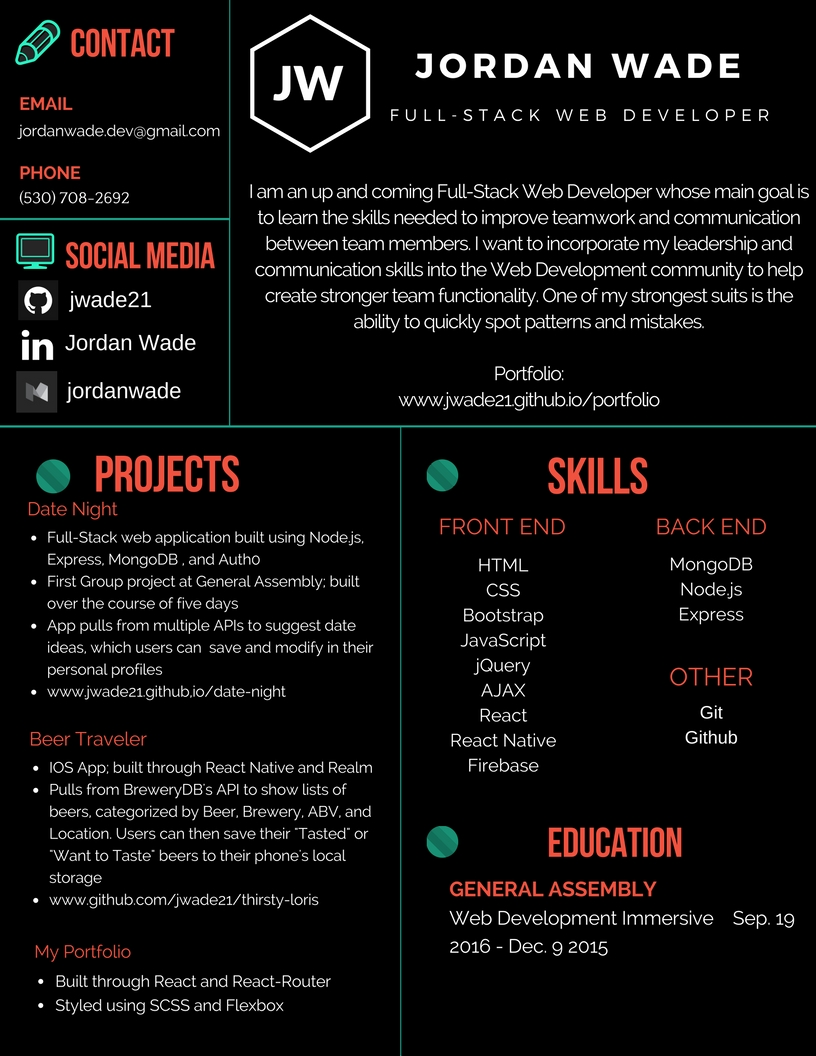
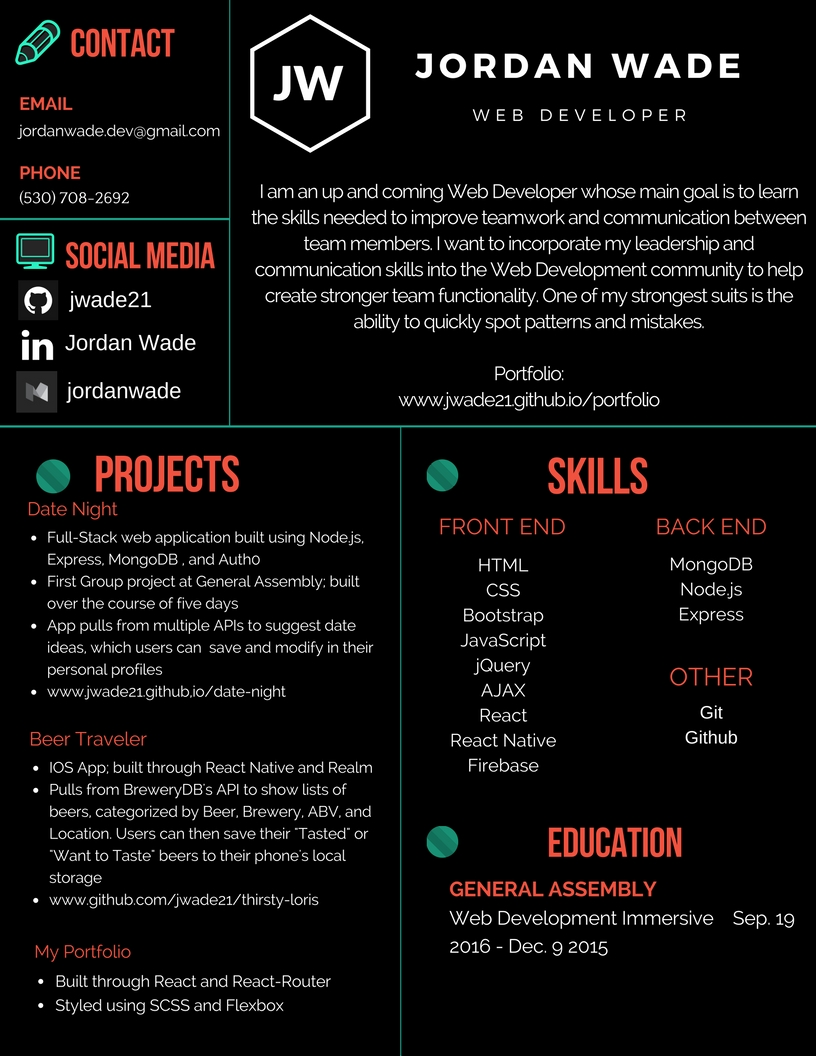
fixed resume and full stack'

Changed region(s): [[0.3064, 0.1562, 0.9804, 0.25], [0.5821, 0.0938, 0.8578, 0.125], [0.8885, 0.0938, 0.9191, 0.125]]

diff --git a/src/Home.js b/src/Home.js
@@ -6,7 +6,7 @@ class Home extends Component {
         <div className='homeTextContainer'>
           <div className='Bio'>
             <p>
-              I am an up and coming Full-Stack Web Developer whose main goal is to learn the skills needed to improve teamwork and communication between team members. I want to incorporate my leadership and communication skills into the Web Development community to help create stronger team functionality. One of my strongest suits is the ability to quickly spot patterns and mistakes.
+              I am an up and coming Web Developer whose main goal is to learn the skills needed to improve teamwork and communication between team members. I want to incorporate my leadership and communication skills into the Web Development community to help create stronger team functionality. One of my strongest suits is the ability to quickly spot patterns and mistakes.
             </p>
             <img src={require('./photos/fakeHeadshot.jpg')} alt='headshot'/>
           </div>

diff --git a/src/App.js b/src/App.js
@@ -14,7 +14,7 @@ class App extends Component {
               Jordan Wade
             </h1>
             <h2>
-              Full Stack Developer
+              Web Developer
             </h2>
           </div>
           <div className='headerTextRight'>
@@ -25,7 +25,7 @@ class App extends Component {
               Loves teamwork
             </h3>
             <h3>
-              Ready for work  
+              Ready for work
             </h3>
           </div>
         </div>
